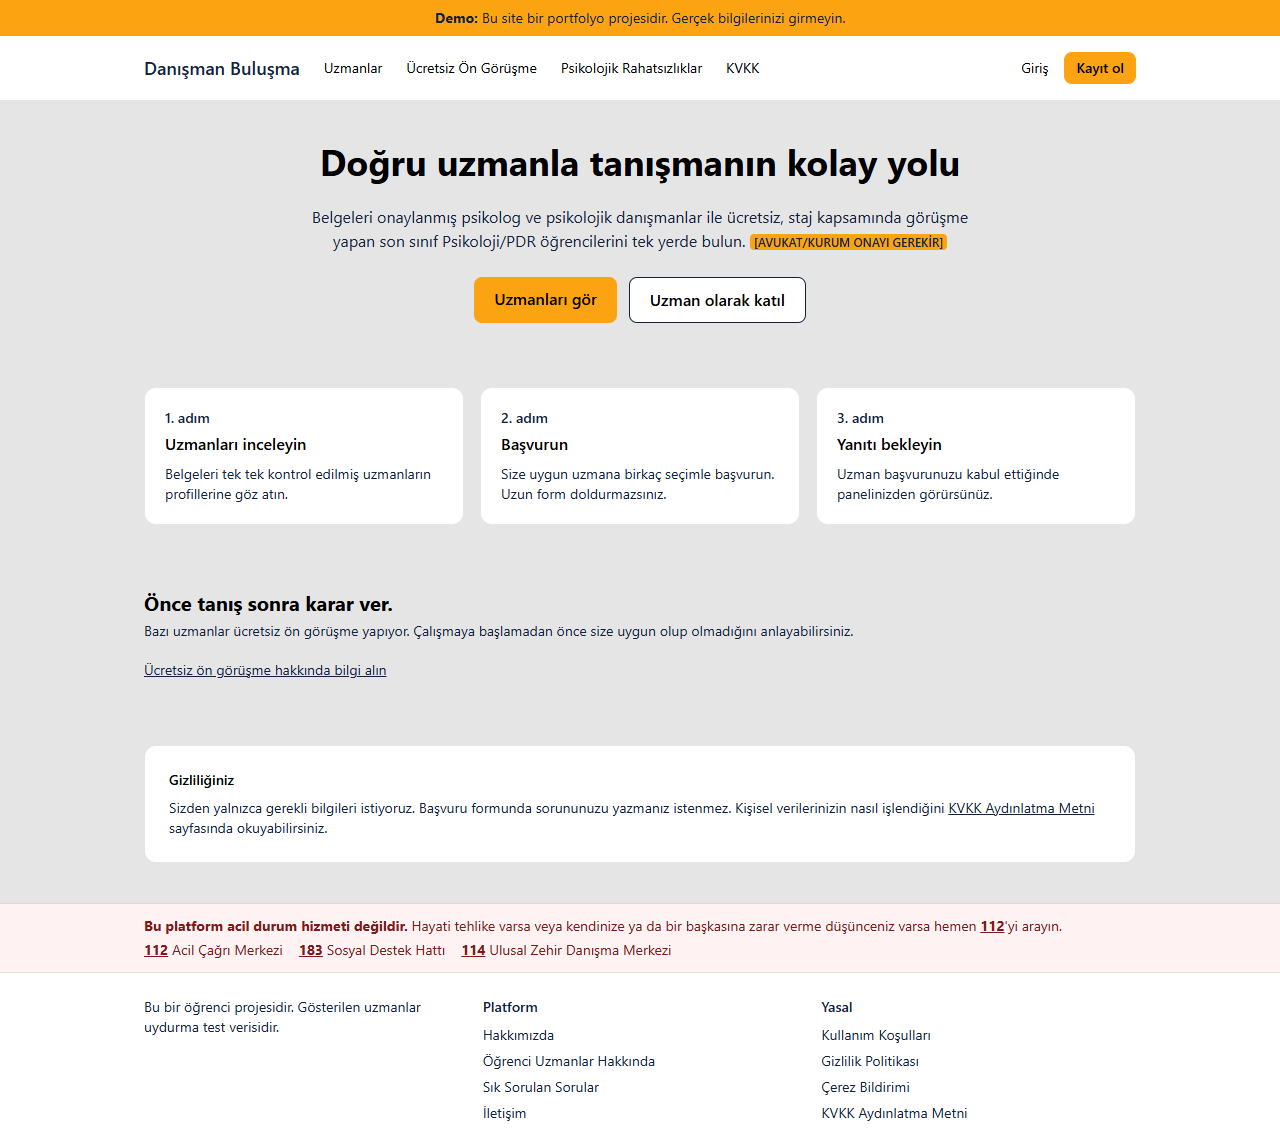
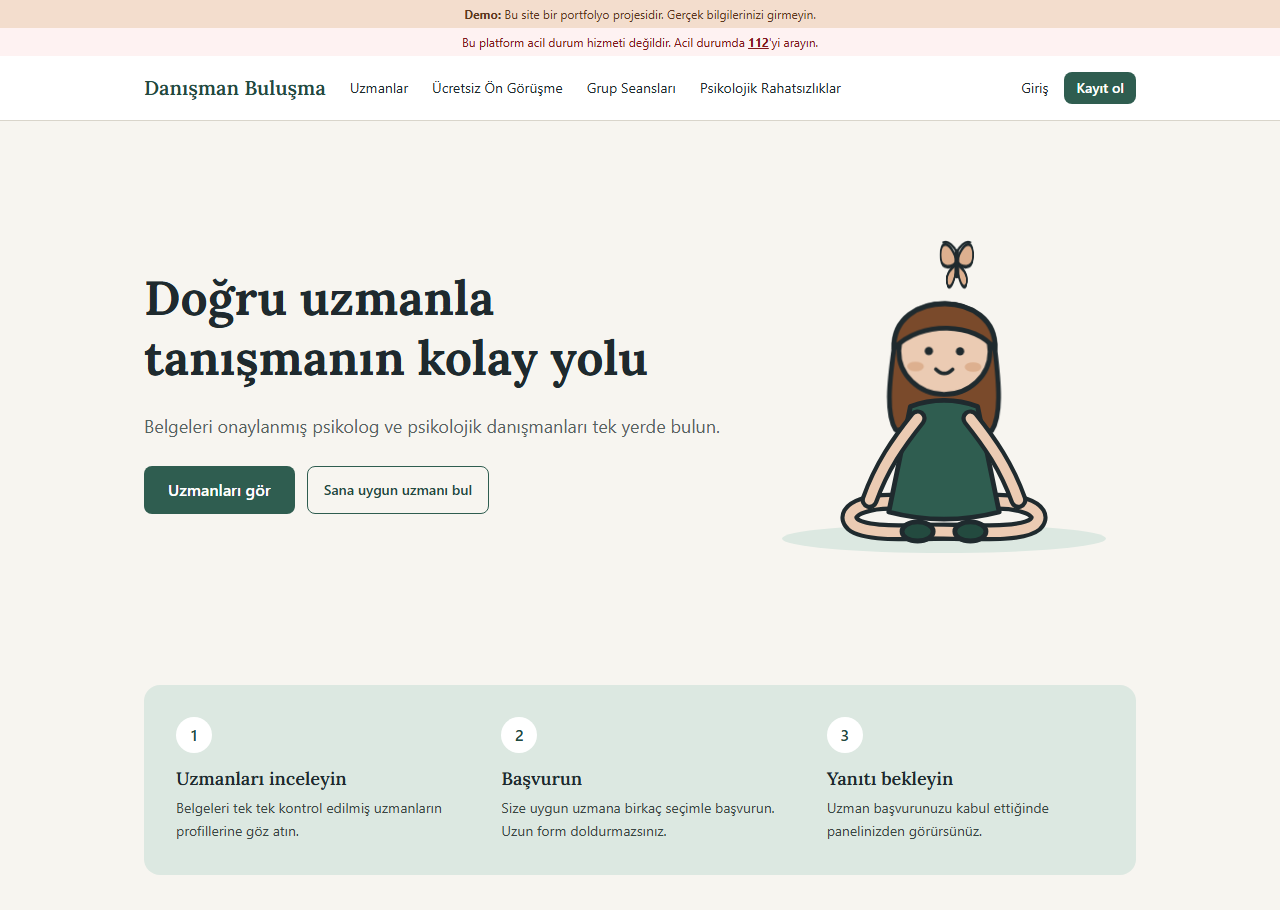
Ekran görüntüleri ve README şeması güncellendi
Görüntüler güncel tasarımla yeniden çekildi. Şema etiketleri tırnaklandı.

diff --git a/README.md b/README.md
@@ -57,10 +57,10 @@ Tüm commit'ler Claude Code ile ortak yazıldı. Benim işim ne yapılacağını
 
 ```mermaid
 flowchart LR
-  T[Tarayıcı] --> N[Next.js sunucusu<br/>proxy.ts: CSP ve oturum]
-  N -->|kullanıcı oturumu + RLS| P[(Supabase Postgres)]
-  N -->|yalnızca sunucu| V[Vault: mesaj ana anahtarı]
-  N -->|yalnızca sunucu| D[Özel dosya depoları]
+  T["Tarayıcı"] --> N["Next.js sunucusu<br/>proxy.ts: CSP ve oturum"]
+  N -->|"kullanıcı oturumu + RLS"| P[("Supabase Postgres")]
+  N -->|"yalnızca sunucu"| V["Vault: mesaj ana anahtarı"]
+  N -->|"yalnızca sunucu"| D["Özel dosya depoları"]
 ```
 
 ## Bilinen sınırlar
@@ -124,7 +124,7 @@ Tüm test hesaplarının şifresi, `.env.local` dosyasına yazdığınız `SEED_
 |---|---|
 | test.danisan@example.com | Danışan |
 | test.uzman1@example.com … test.uzman4@example.com | Uzman (onaylı) |
-| test.ogrenci1@example.com, test.ogrenci2@example.com | Öğrenci uzman (onaylı) |
+| test.ogrenci1@example.com, test.ogrenci2@example.com | Öğrenci uzman (onaylı; listede görünmesi için `OGRENCI_MODULU_AKTIF=true` gerekir) |
 
 ### Sık karşılaşılan sorunlar
 
